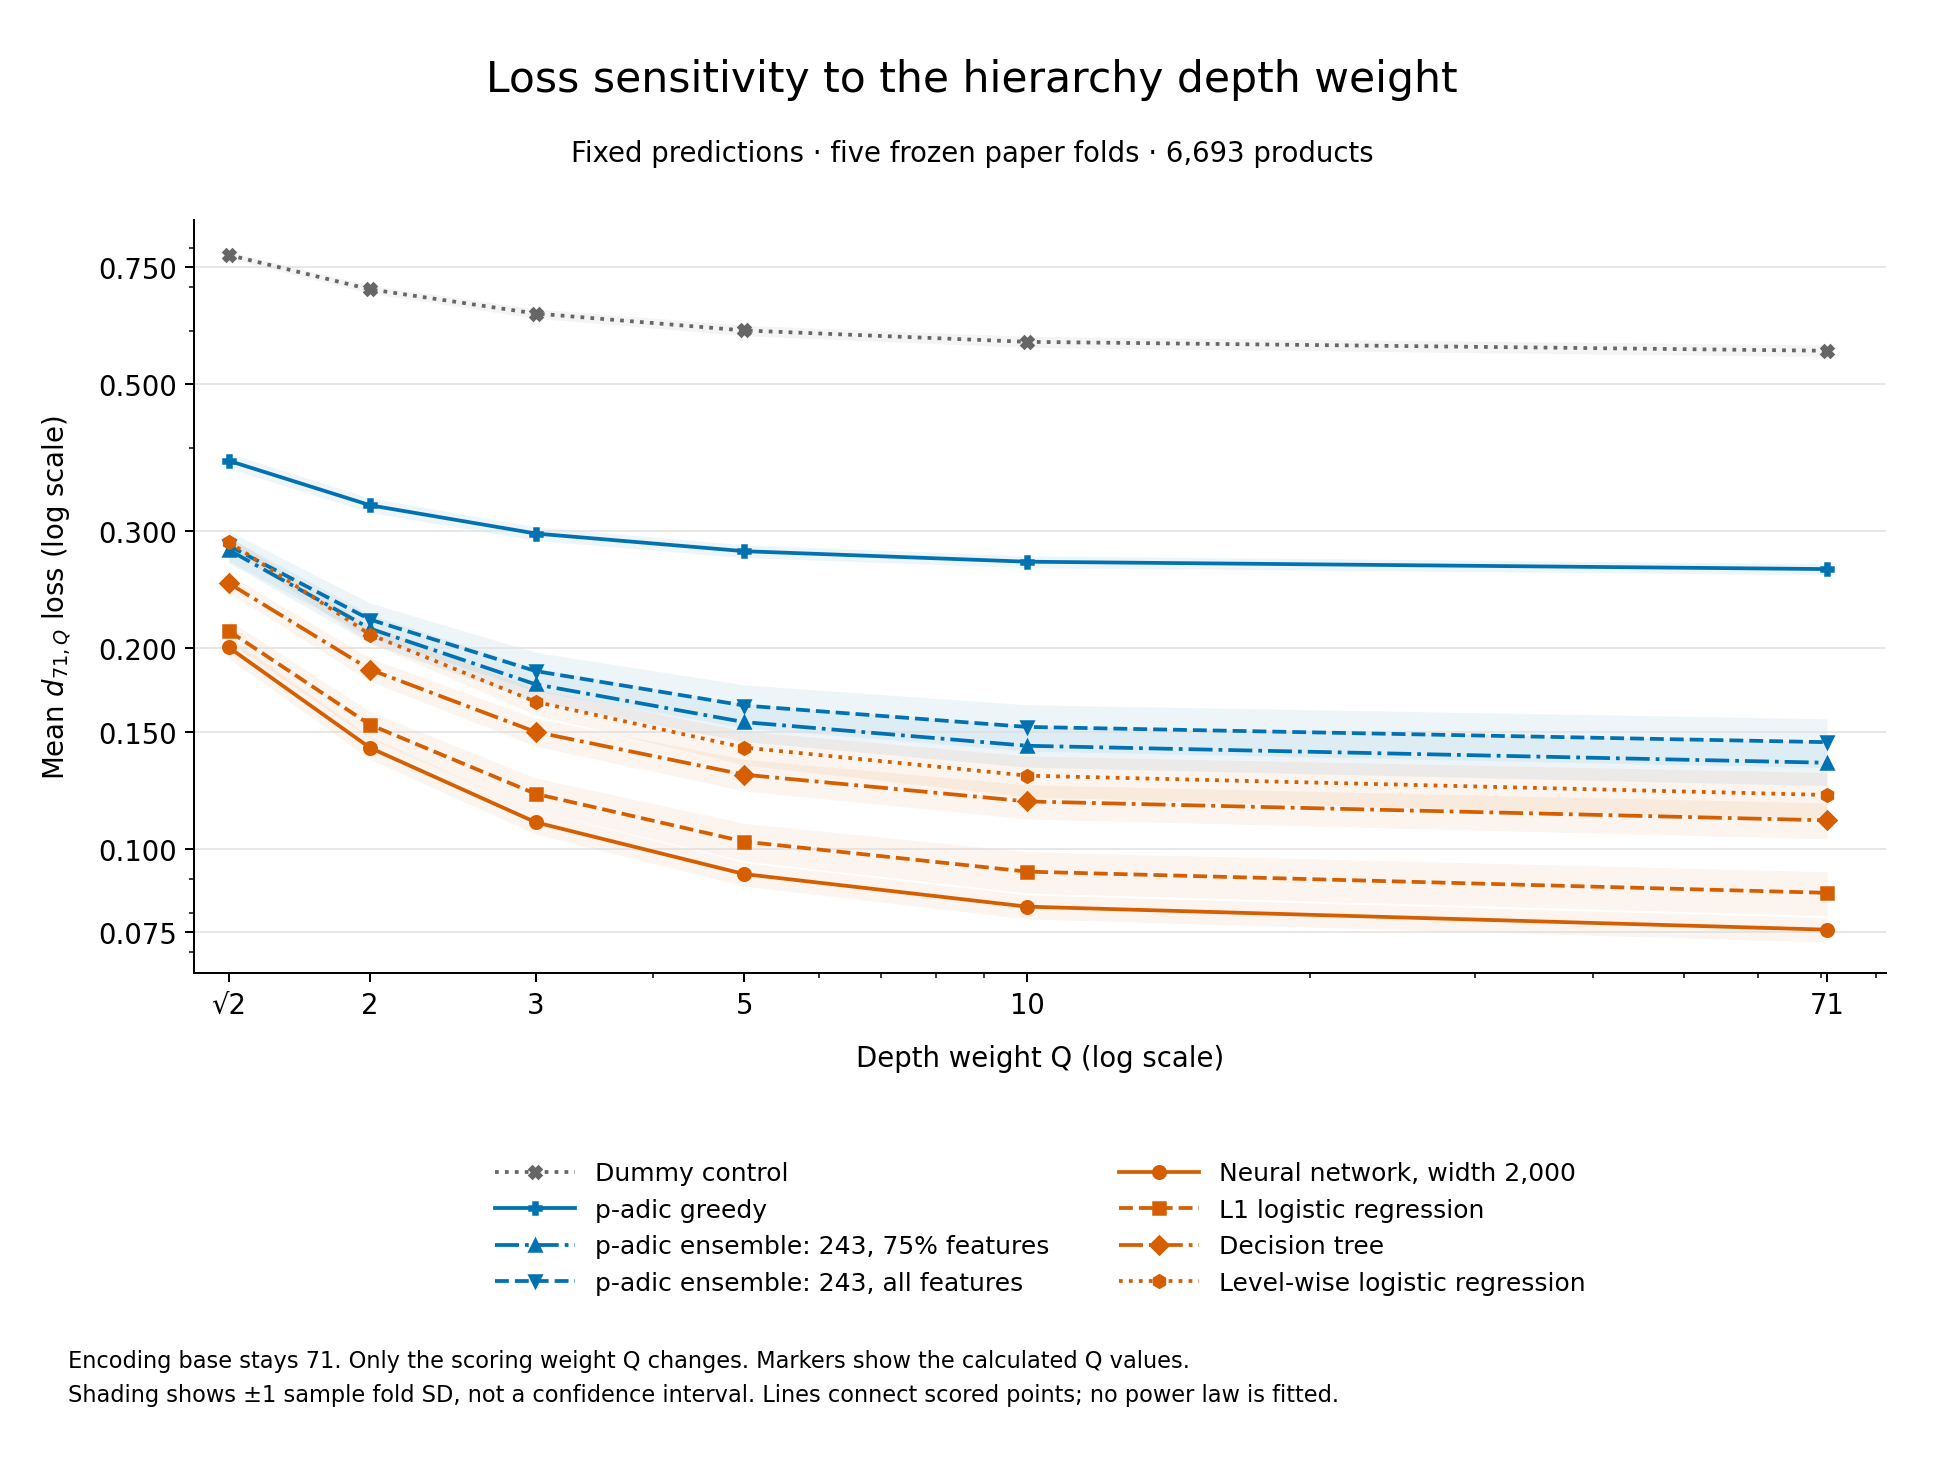
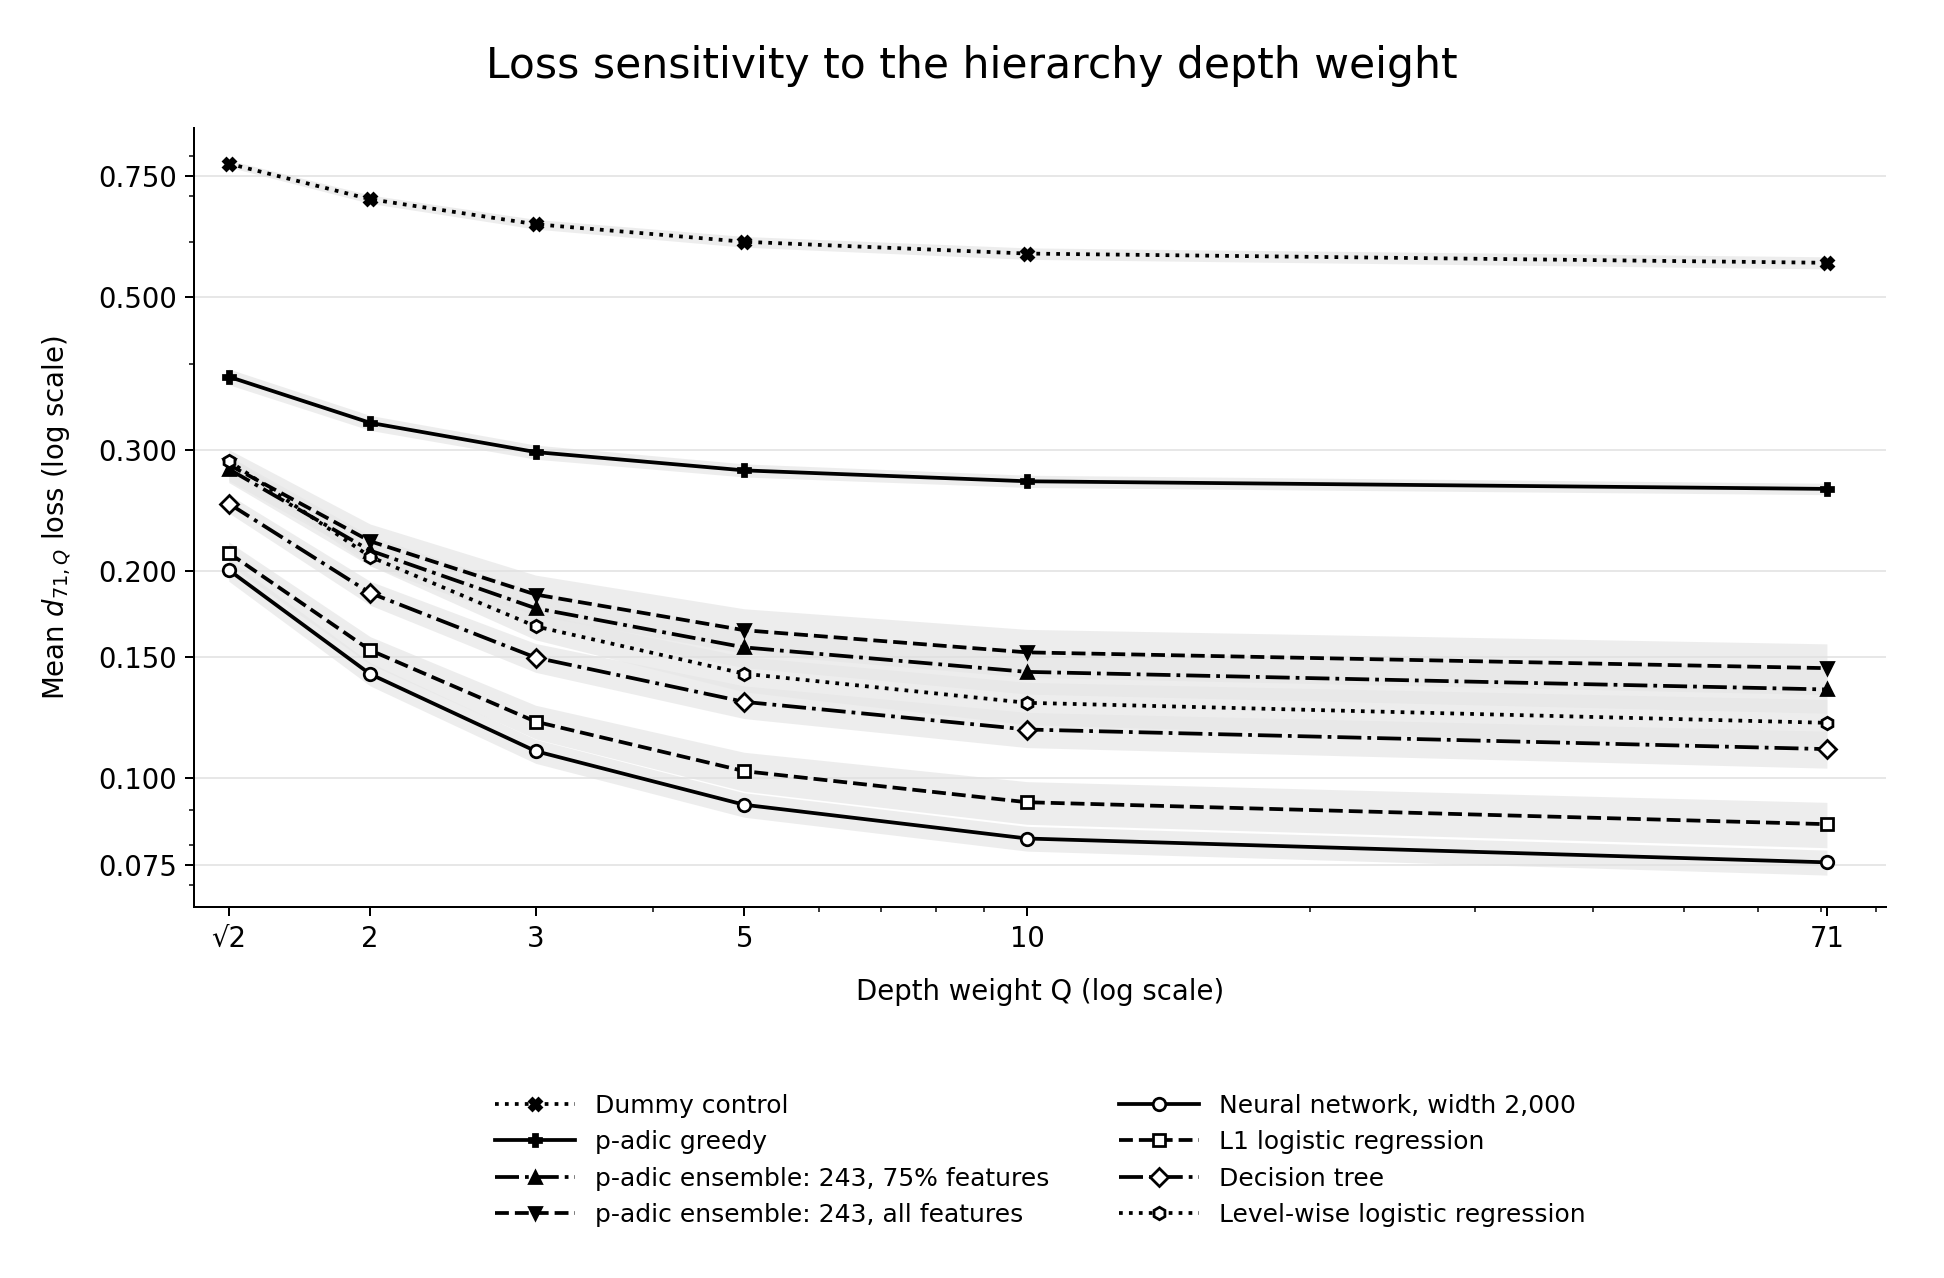
Prepare Q loss figure for black-and-white print and separate caption

diff --git a/padjective/q_loss_curves.py b/padjective/q_loss_curves.py
@@ -18,15 +18,23 @@ EXPERIMENT = "q-loss-curves-2026-11-02"
 FOLD_SIZES = [1300, 1337, 1348, 1372, 1336]
 # The main comparison roster, retaining both 243-member feature fractions.
 STYLES = {
-    "dummy": ("Dummy control", "#666666", "X", ":"),
-    "taxonomy_association": ("p-adic greedy", "#0072B2", "P", "-"),
-    "ensemble_0.75_243": ("p-adic ensemble: 243, 75% features", "#0072B2", "^", "-."),
-    "ensemble_1_243": ("p-adic ensemble: 243, all features", "#0072B2", "v", "--"),
-    "unn": ("Neural network, width 2,000", "#D55E00", "o", "-"),
-    "ulr": ("L1 logistic regression", "#D55E00", "s", "--"),
-    "dt": ("Decision tree", "#D55E00", "D", "-."),
-    "levelwise": ("Level-wise logistic regression", "#D55E00", "h", ":"),
+    "dummy": ("Dummy control", "black", "X", ":"),
+    "taxonomy_association": ("p-adic greedy", "black", "P", "-"),
+    "ensemble_0.75_243": ("p-adic ensemble: 243, 75% features", "black", "^", "-."),
+    "ensemble_1_243": ("p-adic ensemble: 243, all features", "black", "v", "--"),
+    "unn": ("Neural network, width 2,000", "black", "o", "-"),
+    "ulr": ("L1 logistic regression", "black", "s", "--"),
+    "dt": ("Decision tree", "black", "D", "-."),
+    "levelwise": ("Level-wise logistic regression", "black", "h", ":"),
 }
+CAPTION = (
+    "Mean held-out $d_{71,Q}$ loss versus $Q$ on logarithmic axes. "
+    "Fixed predictions across five frozen paper folds (6,693 products). "
+    "Encoding base stays 71. Only the scoring weight $Q$ changes. "
+    "Markers show the calculated $Q$ values. "
+    r"Shading shows $\pm1$ sample fold SD, not a confidence interval. "
+    "Lines connect scored points; no power law is fitted"
+)
 
 
 def canonical_sha256(value):
@@ -89,8 +97,8 @@ def build_data(native, classical):
 def render(data, output):
     plt.rcParams.update({"font.family": "DejaVu Sans", "font.size": 11,
                          "pdf.fonttype": 42, "ps.fonttype": 42})
-    fig, ax = plt.subplots(figsize=(10.8, 8.2))
-    fig.subplots_adjust(left=.10, right=.97, top=.85, bottom=.34)
+    fig, ax = plt.subplots(figsize=(10.8, 7.1))
+    fig.subplots_adjust(left=.10, right=.97, top=.90, bottom=.29)
     for curve in data["curves"]:
         label, color, marker, line = STYLES[curve["configuration"]]
         ps = curve["points"]
@@ -98,9 +106,11 @@ def render(data, output):
         y = [p["mean_loss"] for p in ps]
         ax.fill_between(x, [p["mean_loss"] - p["sample_fold_sd"] for p in ps],
                         [p["mean_loss"] + p["sample_fold_sd"] for p in ps],
-                        color=color, alpha=.065, linewidth=0, zorder=1)
+                        color="0.90", alpha=.7, linewidth=0, zorder=1)
+        marker_face = "white" if curve["configuration"] in {"unn", "ulr", "dt", "levelwise"} else color
         ax.plot(x, y, color=color, marker=marker, linestyle=line, linewidth=1.5,
-                markersize=5, label=label, zorder=3)
+                markersize=5, markerfacecolor=marker_face, markeredgewidth=1.1,
+                label=label, zorder=3)
     ax.set_xscale("log")
     ax.set_yscale("log")
     grid = list(data["q_values"].values())
@@ -116,14 +126,9 @@ def render(data, output):
     ax.set_ylabel(r"Mean $d_{71,Q}$ loss (log scale)", labelpad=10)
     ax.grid(axis="y", which="major", color=".88", linewidth=.6)
     ax.spines[["top", "right"]].set_visible(False)
-    ax.legend(loc="upper center", bbox_to_anchor=(.5, -.22), ncol=2,
+    ax.legend(loc="upper center", bbox_to_anchor=(.5, -.21), ncol=2,
               frameon=False, fontsize=10, columnspacing=2.8, handlelength=3.2)
-    fig.suptitle("Loss sensitivity to the hierarchy depth weight", y=.96, fontsize=17)
-    fig.text(.5, .89, "Fixed predictions · five frozen paper folds · 6,693 products",
-             ha="center", fontsize=11)
-    fig.text(.035, .05, "Encoding base stays 71. Only the scoring weight Q changes. Markers show the calculated Q values.\n"
-             "Shading shows ±1 sample fold SD, not a confidence interval. Lines connect scored points; no power law is fitted.",
-             fontsize=9, linespacing=1.6)
+    fig.suptitle("Loss sensitivity to the hierarchy depth weight", y=.965, fontsize=17)
     for suffix in ("png", "pdf"):
         fig.savefig(output / f"q-loss-log-log.{suffix}", dpi=180)
     plt.close(fig)
@@ -140,6 +145,11 @@ def write_readme(data, output):
              "throughout. The separate native retraining experiments at sqrt(2) and 2 are not "
              "mixed into these curves. Markers identify scored values; connecting segments "
              "guide the eye rather than assert a power law. Bands show sample fold SD, not confidence intervals.", "",
+             "The figure uses black lines, distinct markers and dash patterns, and grey SD bands. "
+             "Experimental context and uncertainty details are in the separate caption, without "
+             "a subtitle or explanatory footer inside the figure.", "",
+             "## Caption", "", CAPTION, "",
+             "`caption.md` contains the caption text; `caption.tex` provides the LaTeX caption command.", "",
              "## Scores", "",
              "| Model | " + " | ".join(f"Q={'√2' if q == 'sqrt2' else q}" for q in data["q_values"]) + " |",
              "|---|" + "---:|" * len(data["q_values"])]
@@ -164,6 +174,8 @@ def write_readme(data, output):
               "  --classical docs/low-q-classical-2026-11-02/results.json \\",
               "  --output docs/q-loss-curves-2026-11-02", "```", ""]
     (output / "README.md").write_text("\n".join(lines))
+    (output / "caption.md").write_text(CAPTION + "\n")
+    (output / "caption.tex").write_text("\\caption{" + CAPTION.replace("6,693", "6{,}693") + "}\n")
 
 
 def main():

diff --git a/docs/q-loss-curves-2026-11-02/caption.tex b/docs/q-loss-curves-2026-11-02/caption.tex
@@ -1,0 +1,1 @@
+\caption{Mean held-out $d_{71,Q}$ loss versus $Q$ on logarithmic axes. Fixed predictions across five frozen paper folds (6{,}693 products). Encoding base stays 71. Only the scoring weight $Q$ changes. Markers show the calculated $Q$ values. Shading shows $\pm1$ sample fold SD, not a confidence interval. Lines connect scored points; no power law is fitted}

diff --git a/docs/q-loss-curves-2026-11-02/README.md b/docs/q-loss-curves-2026-11-02/README.md
@@ -6,6 +6,14 @@ The older appendix already reports Q = 2, 3, 5, 10 and 71 for greedy and ensembl
 
 The curves use the original Q=71 native fits and unchanged classical objectives throughout. The separate native retraining experiments at sqrt(2) and 2 are not mixed into these curves. Markers identify scored values; connecting segments guide the eye rather than assert a power law. Bands show sample fold SD, not confidence intervals.
 
+The figure uses black lines, distinct markers and dash patterns, and grey SD bands. Experimental context and uncertainty details are in the separate caption, without a subtitle or explanatory footer inside the figure.
+
+## Caption
+
+Mean held-out $d_{71,Q}$ loss versus $Q$ on logarithmic axes. Fixed predictions across five frozen paper folds (6,693 products). Encoding base stays 71. Only the scoring weight $Q$ changes. Markers show the calculated $Q$ values. Shading shows $\pm1$ sample fold SD, not a confidence interval. Lines connect scored points; no power law is fitted
+
+`caption.md` contains the caption text; `caption.tex` provides the LaTeX caption command.
+
 ## Scores
 
 | Model | Q=√2 | Q=2 | Q=3 | Q=5 | Q=10 | Q=71 |

diff --git a/docs/q-loss-curves-2026-11-02/caption.md b/docs/q-loss-curves-2026-11-02/caption.md
@@ -1,0 +1,1 @@
+Mean held-out $d_{71,Q}$ loss versus $Q$ on logarithmic axes. Fixed predictions across five frozen paper folds (6,693 products). Encoding base stays 71. Only the scoring weight $Q$ changes. Markers show the calculated $Q$ values. Shading shows $\pm1$ sample fold SD, not a confidence interval. Lines connect scored points; no power law is fitted
